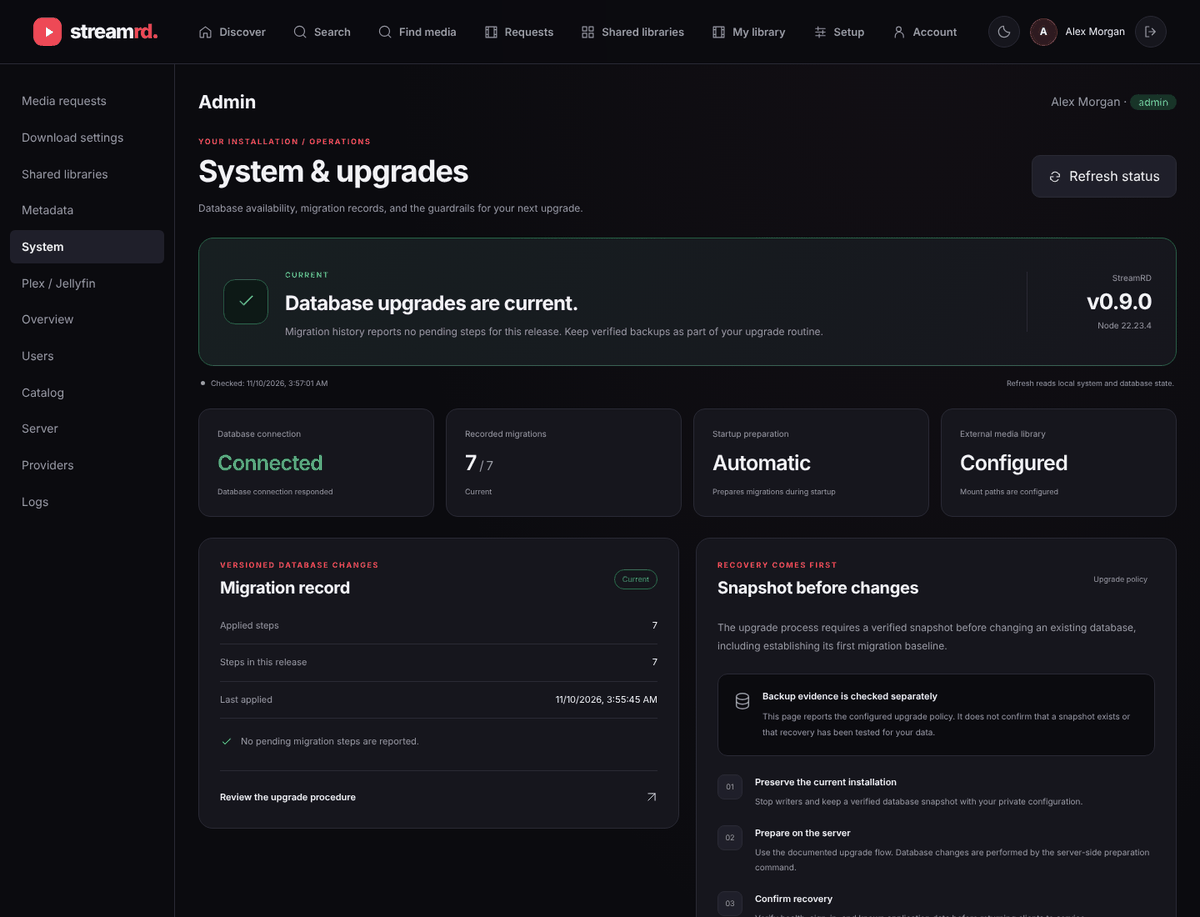
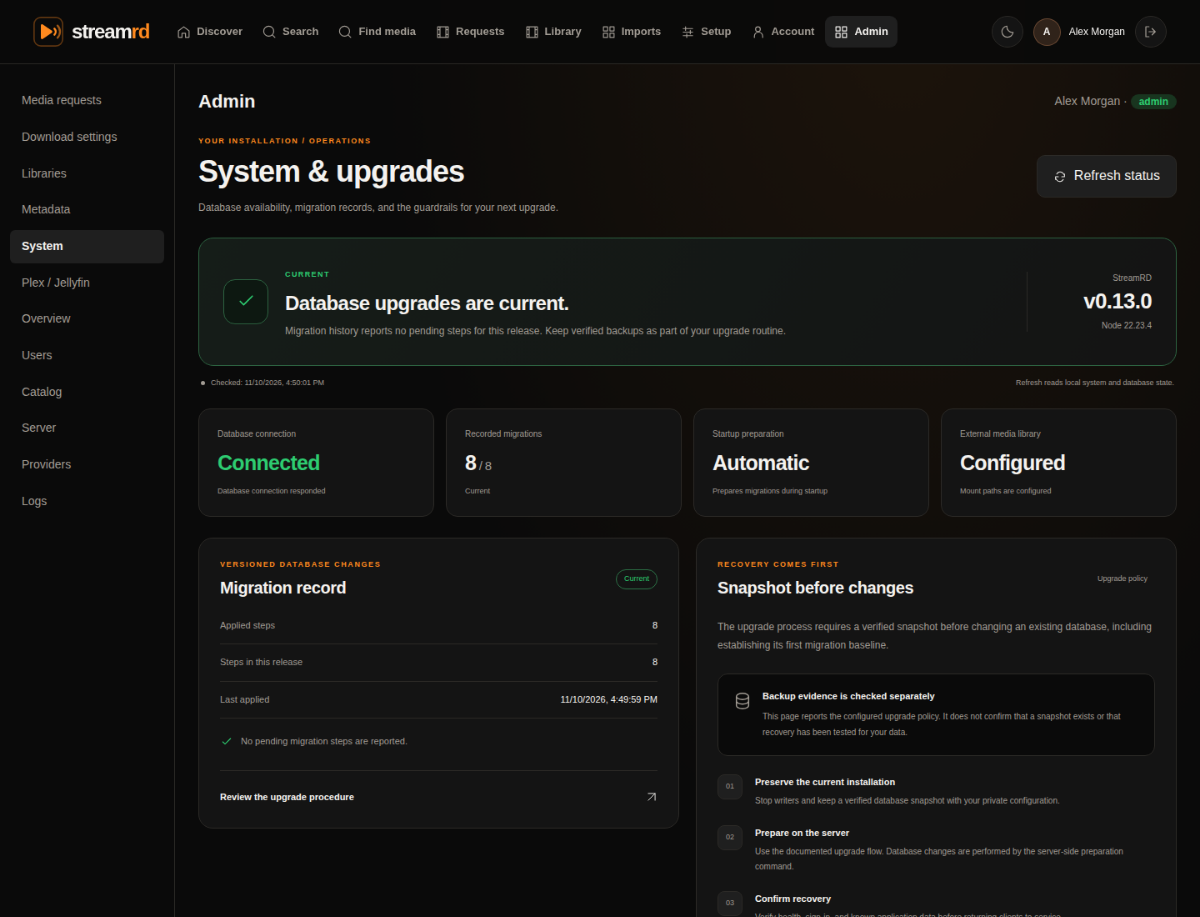
Screenshots: retake the README and wiki images in black and orange (#30)
* Add per-viewer watch progress and Continue Watching for shared libraries

Additive SharedLibraryProgress migration, resume-aware play response,
progress and continue APIs, web player resume and a Continue watching row.

Claude-Session: https://claude.ai/code/session_01XfL5GpKjb5mdAxbrKg7r83

* Add shared watch progress browser journey and v0.7.0 screenshots

Claude-Session: https://claude.ai/code/session_01XfL5GpKjb5mdAxbrKg7r83

* Limit watch-progress journey to StreamRD and refresh v0.7.0 screenshots for both products

Claude-Session: https://claude.ai/code/session_01XfL5GpKjb5mdAxbrKg7r83

* Prepare v0.7.0: bump package versions and release notes

Claude-Session: https://claude.ai/code/session_01XfL5GpKjb5mdAxbrKg7r83

* Update wiki sources for v0.7.0 shared watch progress

Claude-Session: https://claude.ai/code/session_01XfL5GpKjb5mdAxbrKg7r83

* Implement discovery, approved media requests and cloud/qBittorrent tracking

* Bundle both applications and qBittorrent in one supervised container

* Release candidate v0.8.0: admin updates, backup and restore

Admin -> System gains update checks with an operator-configured hook, verified
backups, typed-confirmation restore applied at next start, and a restart option
under a supervisor. Rebased Codex's media requests and single-container work onto
v0.7.0, resequenced its migration, bumped versions to 0.8.0, added a browser journey,
docs and screenshots.
[…]

diff --git a/docs/wiki/Screenshots.md b/docs/wiki/Screenshots.md
@@ -1,105 +1,105 @@
-# Screenshots — v0.9.0
+# Screenshots — v0.13.0
 
 Eighty-one captures from actual production images, with forty-one passing browser journeys
 and no page errors. All accounts/data are disposable fixtures. Read the
-[provenance and validation](https://github.com/Installation-04/StreamRD/blob/v0.9.0/docs/screenshots/v0.9.0/README.md)
+[provenance and validation](https://github.com/Installation-04/StreamRD/blob/main/docs/screenshots/v0.13.0/README.md)
 for what is real and what is synthetic.
 
 ## StreamRD discovery
 
-A real curated catalog, original poster fallbacks, and a saved favorite.
+The home page: a featured carousel (trailers are optional and per viewer), trending and popular rows, then the collection.
 
-![StreamRD discovery](https://raw.githubusercontent.com/Installation-04/StreamRD/v0.9.0/docs/screenshots/v0.9.0/streamrd-discover.png)
+![StreamRD discovery](https://raw.githubusercontent.com/Installation-04/StreamRD/main/docs/screenshots/v0.13.0/streamrd-discover.png)
 
 ## StreamRD light theme
 
 The same catalog with the actual light-theme control.
 
-![StreamRD light theme](https://raw.githubusercontent.com/Installation-04/StreamRD/v0.9.0/docs/screenshots/v0.9.0/streamrd-discover-light.png)
+![StreamRD light theme](https://raw.githubusercontent.com/Installation-04/StreamRD/main/docs/screenshots/v0.13.0/streamrd-discover-light.png)
 
 ## StreamRD on mobile
 
 390px viewport with responsive navigation and discovery.
 
-![StreamRD on mobile](https://raw.githubusercontent.com/Installation-04/StreamRD/v0.9.0/docs/screenshots/v0.9.0/streamrd-discover-mobile.png)
+![StreamRD on mobile](https://raw.githubusercontent.com/Installation-04/StreamRD/main/docs/screenshots/v0.13.0/streamrd-discover-mobile.png)
 
 ## Guided setup
 
 Local configuration progress, explicit next actions, and optional external libraries.
 
-![Guided setup](https://raw.githubusercontent.com/Installation-04/StreamRD/v0.9.0/docs/screenshots/v0.9.0/streamrd-setup.png)
+![Guided setup](https://raw.githubusercontent.com/Installation-04/StreamRD/main/docs/screenshots/v0.13.0/streamrd-setup.png)
 
 ## Setup on mobile
 
 The same checklist in a mobile viewport.
 
-![Setup on mobile](https://raw.githubusercontent.com/Installation-04/StreamRD/v0.9.0/docs/screenshots/v0.9.0/streamrd-setup-mobile.png)
+![Setup on mobile](https://raw.githubusercontent.com/Installation-04/StreamRD/main/docs/screenshots/v0.13.0/streamrd-setup-mobile.png)
 
 ## Reviewed mounted-library exports
 
 Real mounted-file selection and movie/episode batch exports, followed by link repair.
 
-![Reviewed mounted-library exports](https://raw.githubusercontent.com/Installation-04/StreamRD/v0.9.0/docs/screenshots/v0.9.0/streamrd-library.png)
+![Reviewed mounted-library exports](https://raw.githubusercontent.com/Installation-04/StreamRD/main/docs/screenshots/v0.13.0/streamrd-library.png)
 
 ## Library on mobile
 
 Mobile browsing before any demo files are exported.
 
-![Library on mobile](https://raw.githubusercontent.com/Installation-04/StreamRD/v0.9.0/docs/screenshots/v0.9.0/streamrd-library-mobile.png)
+![Library on mobile](https://raw.githubusercontent.com/Installation-04/StreamRD/main/docs/screenshots/v0.13.0/streamrd-library-mobile.png)
 
 ## Phosphor discovery
 
 Local Torznab results, inline saved-search naming, and the green theme.
 
-![Phosphor discovery](https://raw.githubusercontent.com/Installation-04/StreamRD/v0.9.0/docs/screenshots/v0.9.0/phosphor-discover.png)
+![Phosphor discovery](https://raw.githubusercontent.com/Installation-04/StreamRD/main/docs/screenshots/v0.13.0/phosphor-discover.png)
 
 ## Phosphor amber theme
 
 Theme control preserves the active search.
 
-![Phosphor amber theme](https://raw.githubusercontent.com/Installation-04/StreamRD/v0.9.0/docs/screenshots/v0.9.0/phosphor-discover-amber.png)
+![Phosphor amber theme](https://raw.githubusercontent.com/Installation-04/StreamRD/main/docs/screenshots/v0.13.0/phosphor-discover-amber.png)
 
 ## Phosphor white theme
 
 A third legible phosphor palette.
 
-![Phosphor white theme](https://raw.githubusercontent.com/Installation-04/StreamRD/v0.9.0/docs/screenshots/v0.9.0/phosphor-discover-white.png)
+![Phosphor white theme](https://raw.githubusercontent.com/Installation-04/StreamRD/main/docs/screenshots/v0.13.0/phosphor-discover-white.png)
 
 ## Phosphor on mobile
 
 Responsive search and filter controls at 390px.
 
-![Phosphor on mobile](https://raw.githubusercontent.com/Installation-04/StreamRD/v0.9.0/docs/screenshots/v0.9.0/phosphor-discover-mobile.png)
+![Phosphor on mobile](https://raw.githubusercontent.com/Installation-04/StreamRD/main/docs/screenshots/v0.13.0/phosphor-discover-mobile.png)
 
 ## Phosphor setup
 
 Role-aware connection checklist; configured is explicitly unverified.
 
-![Phosphor setup](https://raw.githubusercontent.com/Installation-04/StreamRD/v0.9.0/docs/screenshots/v0.9.0/phosphor-setup.png)
+![Phosphor setup](https://raw.githubusercontent.com/Installation-04/StreamRD/main/docs/screenshots/v0.13.0/phosphor-setup.png)
 
 ## Phosphor setup on mobile
 
 Mobile setup guidance for a fresh demo installation.
 
-![Phosphor setup on mobile](https://raw.githubusercontent.com/Installation-04/StreamRD/v0.9.0/docs/screenshots/v0.9.0/phosphor-setup-mobile.png)
+![Phosphor setup on mobile](https://raw.githubusercontent.com/Installation-04/StreamRD/main/docs/screenshots/v0.13.0/phosphor-setup-mobile.png)
 
 ## Phosphor mounted library
 
 The same reviewed movie/episode workflow in the terminal theme.
 
-![Phosphor mounted library](https://raw.githubusercontent.com/Installation-04/StreamRD/v0.9.0/docs/screenshots/v0.9.0/phosphor-library.png)
+![Phosphor mounted library](https://raw.githubusercontent.com/Installation-04/StreamRD/main/docs/screenshots/v0.13.0/phosphor-library.png)
 
 ## Phosphor library on mobile
 
 Responsive folder browsing and review panels.
 
-![Phosphor library on mobile](https://raw.githubusercontent.com/Installation-04/StreamRD/v0.9.0/docs/screenshots/v0.9.0/phosphor-library-mobile.png)
+![Phosphor library on mobile](https://raw.githubusercontent.com/Installation-04/StreamRD/main/docs/screenshots/v0.13.0/phosphor-library-mobile.png)
 
 ## Phosphor queue
 
 The real empty state; outage recovery is tested separately.
 
-![Phosphor queue](https://raw.githubusercontent.com/Installation-04/StreamRD/v0.9.0/docs/screenshots/v0.9.0/phosphor-queue.png)
+![Phosphor queue](https://raw.githubusercontent.com/Installation-04/StreamRD/main/docs/screenshots/v0.13.0/phosphor-queue.png)
 
 
 ## StreamRD System & upgrades
@@ -107,15 +107,15 @@ The real empty state; outage recovery is tested separately.
 Read-only release, runtime and independently verified migration readiness. Snapshot
 policy is shown separately from evidence that a backup exists.
 
-![StreamRD System](https://raw.githubusercontent.com/Installation-04/StreamRD/v0.9.0/docs/screenshots/v0.9.0/streamrd-system.png)
+![StreamRD System](https://raw.githubusercontent.com/Installation-04/StreamRD/main/docs/screenshots/v0.13.0/streamrd-system.png)
 
-![StreamRD System on mobile](https://raw.githubusercontent.com/Installation-04/StreamRD/v0.9.0/docs/screenshots/v0.9.0/streamrd-system-mobile.png)
+![StreamRD System on mobile](https://raw.githubusercontent.com/Installation-04/StreamRD/main/docs/screenshots/v0.13.0/streamrd-system-mobile.png)
 
 ## Phosphor System & upgrades
 
-![Phosphor System](https://raw.githubusercontent.com/Installation-04/StreamRD/v0.9.0/docs/screenshots/v0.9.0/phosphor-system.png)
+![Phosphor System](https://raw.githubusercontent.com/Installation-04/StreamRD/main/docs/screenshots/v0.13.0/phosphor-system.png)
 
-![Phosphor System on mobile](https://raw.githubusercontent.com/Installation-04/StreamRD/v0.9.0/docs/screenshots/v0.9.0/phosphor-system-mobile.png)
+![Phosphor System on mobile](https://raw.githubusercontent.com/Installation-04/StreamRD/main/docs/screenshots/v0.13.0/phosphor-system-mobile.png)
 
 ## Metadata and automatic libraries
 
@@ -124,110 +124,110 @@ posters were used. Ratings and cast in these images are synthetic demo data.
 
 ### StreamRD: Metadata settings and matching activity
 
-![StreamRD Metadata settings and matching activity](https://raw.githubusercontent.com/Installation-04/StreamRD/v0.9.0/docs/screenshots/v0.9.0/streamrd-metadata.png)
+![StreamRD Metadata settings and matching activity](https://raw.githubusercontent.com/Installation-04/StreamRD/main/docs/screenshots/v0.13.0/streamrd-metadata.png)
 
 ### StreamRD: Metadata on mobile
 
-![StreamRD Metadata on mobile](https://raw.githubusercontent.com/Installation-04/StreamRD/v0.9.0/docs/screenshots/v0.9.0/streamrd-metadata-mobile.png)
+![StreamRD Metadata on mobile](https://raw.githubusercontent.com/Installation-04/StreamRD/main/docs/screenshots/v0.13.0/streamrd-metadata-mobile.png)
 
 ### StreamRD: Enriched mounted exports
 
-![StreamRD Enriched mounted exports](https://raw.githubusercontent.com/Installation-04/StreamRD/v0.9.0/docs/screenshots/v0.9.0/streamrd-library-metadata.png)
+![StreamRD Enriched mounted exports](https://raw.githubusercontent.com/Installation-04/StreamRD/main/docs/screenshots/v0.13.0/streamrd-library-metadata.png)
 
 ### StreamRD: Onboarding account scan
 
-![StreamRD Onboarding account scan](https://raw.githubusercontent.com/Installation-04/StreamRD/v0.9.0/docs/screenshots/v0.9.0/streamrd-setup-scan.png)
+![StreamRD Onboarding account scan](https://raw.githubusercontent.com/Installation-04/StreamRD/main/docs/screenshots/v0.13.0/streamrd-setup-scan.png)
 
 ### StreamRD: Private account library
 
-![StreamRD Private account library](https://raw.githubusercontent.com/Installation-04/StreamRD/v0.9.0/docs/screenshots/v0.9.0/streamrd-account-library.png)
+![StreamRD Private account library](https://raw.githubusercontent.com/Installation-04/StreamRD/main/docs/screenshots/v0.13.0/streamrd-account-library.png)
 
 ### StreamRD: Private library on mobile
 
-![StreamRD Private library on mobile](https://raw.githubusercontent.com/Installation-04/StreamRD/v0.9.0/docs/screenshots/v0.9.0/streamrd-account-library-mobile.png)
+![StreamRD Private library on mobile](https://raw.githubusercontent.com/Installation-04/StreamRD/main/docs/screenshots/v0.13.0/streamrd-account-library-mobile.png)
 
 ### StreamRD: Private title details
 
-![StreamRD Private title details](https://raw.githubusercontent.com/Installation-04/StreamRD/v0.9.0/docs/screenshots/v0.9.0/streamrd-account-title.png)
+![StreamRD Private title details](https://raw.githubusercontent.com/Installation-04/StreamRD/main/docs/screenshots/v0.13.0/streamrd-account-title.png)
 
 ### Phosphor: Metadata settings and matching activity
 
-![Phosphor Metadata settings and matching activity](https://raw.githubusercontent.com/Installation-04/StreamRD/v0.9.0/docs/screenshots/v0.9.0/phosphor-metadata.png)
+![Phosphor Metadata settings and matching activity](https://raw.githubusercontent.com/Installation-04/StreamRD/main/docs/screenshots/v0.13.0/phosphor-metadata.png)
 
 ### Phosphor: Metadata on mobile
 
-![Phosphor Metadata on mobile](https://raw.githubusercontent.com/Installation-04/StreamRD/v0.9.0/docs/screenshots/v0.9.0/phosphor-metadata-mobile.png)
+![Phosphor Metadata on mobile](https://raw.githubusercontent.com/Installation-04/StreamRD/main/docs/screenshots/v0.13.0/phosphor-metadata-mobile.png)
 
 ### Phosphor: Enriched mounted exports
 
-![Phosphor Enriched mounted exports](https://raw.githubusercontent.com/Installation-04/StreamRD/v0.9.0/docs/screenshots/v0.9.0/phosphor-library-metadata.png)
+![Phosphor Enriched mounted exports](https://raw.githubusercontent.com/Installation-04/StreamRD/main/docs/screenshots/v0.13.0/phosphor-library-metadata.png)
 
 ### Phosphor: Onboarding account scan
 
-![Phosphor Onboarding account scan](https://raw.githubusercontent.com/Installation-04/StreamRD/v0.9.0/docs/screenshots/v0.9.0/phosphor-setup-scan.png)
+![Phosphor Onboarding account scan](https://raw.githubusercontent.com/Installation-04/StreamRD/main/docs/screenshots/v0.13.0/phosphor-setup-scan.png)
 
 ### Phosphor: Private account library
 
-![Phosphor Private account library](https://raw.githubusercontent.com/Installation-04/StreamRD/v0.9.0/docs/screenshots/v0.9.0/phosphor-account-library.png)
+![Phosphor Private account library](https://raw.githubusercontent.com/Installation-04/StreamRD/main/docs/screenshots/v0.13.0/phosphor-account-library.png)
 
 ### Phosphor: Private library on mobile
 
-![Phosphor Private library on mobile](https://raw.githubusercontent.com/Installation-04/StreamRD/v0.9.0/docs/screenshots/v0.9.0/phosphor-account-library-mobile.png)
+![Phosphor Private library on mobile](https://raw.githubusercontent.com/Installation-04/StreamRD/main/docs/screenshots/v0.13.0/phosphor-account-library-mobile.png)
 
 ### Phosphor: Private title details
 
-![Phosphor Private title details](https://raw.githubusercontent.com/Installation-04/StreamRD/v0.9.0/docs/screenshots/v0.9.0/phosphor-account-title.png)
+![Phosphor Private title details](https://raw.githubusercontent.com/Installation-04/StreamRD/main/docs/screenshots/v0.13.0/phosphor-account-title.png)
 
 ### StreamRD: Enriched catalog title
 
-![Enriched catalog title](https://raw.githubusercontent.com/Installation-04/StreamRD/v0.9.0/docs/screenshots/v0.9.0/streamrd-title-metadata.png)
+![Enriched catalog title](https://raw.githubusercontent.com/Installation-04/StreamRD/main/docs/screenshots/v0.13.0/streamrd-title-metadata.png)
 
 ### StreamRD: Catalog details on mobile
 
-![Catalog details on mobile](https://raw.githubusercontent.com/Installation-04/StreamRD/v0.9.0/docs/screenshots/v0.9.0/streamrd-title-metadata-mobile.png)
+![Catalog details on mobile](https://raw.githubusercontent.com/Installation-04/StreamRD/main/docs/screenshots/v0.13.0/streamrd-title-metadata-mobile.png)
 
 ## Admin maintenance, logs and library matching
 
-![StreamRD Updates and Backups & restore](https://raw.githubusercontent.com/Installation-04/StreamRD/v0.9.0/docs/screenshots/v0.9.0/system-maintenance.png)
+![StreamRD Updates and Backups & restore](https://raw.githubusercontent.com/Installation-04/StreamRD/main/docs/screenshots/v0.13.0/system-maintenance.png)
 
-![StreamRD admin logs with search, copy and download](https://raw.githubusercontent.com/Installation-04/StreamRD/v0.9.0/docs/screenshots/v0.9.0/logs.png)
+![StreamRD admin logs with search, copy and download](https://raw.githubusercontent.com/Installation-04/StreamRD/main/docs/screenshots/v0.13.0/logs.png)
 
-![StreamRD My library matching progress](https://raw.githubusercontent.com/Installation-04/StreamRD/v0.9.0/docs/screenshots/v0.9.0/library-match-status.png)
+![StreamRD My library matching progress](https://raw.githubusercontent.com/Installation-04/StreamRD/main/docs/screenshots/v0.13.0/library-match-status.png)
 
-![StreamRD dashboard with From your library](https://raw.githubusercontent.com/Installation-04/StreamRD/v0.9.0/docs/screenshots/v0.9.0/dashboard-library-row.png)
+![StreamRD home page rows: New in your libraries, Popular on this server, Trending and Popular](https://raw.githubusercontent.com/Installation-04/StreamRD/main/docs/screenshots/v0.13.0/dashboard-library-row.png)
 
 ## People and server access
 
 Invite-only signup policy, one-use invitations and member controls.
 
-![StreamRD people and access](https://raw.githubusercontent.com/Installation-04/StreamRD/v0.9.0/docs/screenshots/v0.9.0/streamrd-server-access.png)
+![StreamRD people and access](https://raw.githubusercontent.com/Installation-04/StreamRD/main/docs/screenshots/v0.13.0/streamrd-server-access.png)
 
-![StreamRD mobile people and access](https://raw.githubusercontent.com/Installation-04/StreamRD/v0.9.0/docs/screenshots/v0.9.0/streamrd-server-access-mobile.png)
+![StreamRD mobile people and access](https://raw.githubusercontent.com/Installation-04/StreamRD/main/docs/screenshots/v0.13.0/streamrd-server-access-mobile.png)
 
-![StreamRD named libraries and grants](https://raw.githubusercontent.com/Installation-04/StreamRD/v0.9.0/docs/screenshots/v0.9.0/streamrd-shared-library-admin.png)
+![StreamRD Admin → Libraries: visible to everyone or chosen people](https://raw.githubusercontent.com/Installation-04/StreamRD/main/docs/screenshots/v0.13.0/streamrd-shared-library-admin.png)
 
-![StreamRD mobile library administration](https://raw.githubusercontent.com/Installation-04/StreamRD/v0.9.0/docs/screenshots/v0.9.0/streamrd-shared-library-admin-mobile.png)
+![StreamRD mobile library administration](https://raw.githubusercontent.com/Installation-04/StreamRD/main/docs/screenshots/v0.13.0/streamrd-shared-library-admin-mobile.png)
 
-![StreamRD viewer gallery](https://raw.githubusercontent.com/Installation-04/StreamRD/v0.9.0/docs/screenshots/v0.9.0/streamrd-shared-library.png)
+![StreamRD Library as an invited viewer sees it](https://raw.githubusercontent.com/Installation-04/StreamRD/main/docs/screenshots/v0.13.0/streamrd-shared-library.png)
 
-![StreamRD mobile viewer gallery](https://raw.githubusercontent.com/Installation-04/StreamRD/v0.9.0/docs/screenshots/v0.9.0/streamrd-shared-library-mobile.png)
+![StreamRD mobile viewer gallery](https://raw.githubusercontent.com/Installation-04/StreamRD/main/docs/screenshots/v0.13.0/streamrd-shared-library-mobile.png)
 
-![StreamRD Continue watching row](https://raw.githubusercontent.com/Installation-04/StreamRD/v0.9.0/docs/screenshots/v0.9.0/streamrd-shared-continue-watching.png)
+![StreamRD Continue watching row](https://raw.githubusercontent.com/Installation-04/StreamRD/main/docs/screenshots/v0.13.0/streamrd-shared-continue-watching.png)
 
-![StreamRD Continue watching on mobile](https://raw.githubusercontent.com/Installation-04/StreamRD/v0.9.0/docs/screenshots/v0.9.0/streamrd-shared-continue-watching-mobile.png)
+![StreamRD Continue watching on mobile](https://raw.githubusercontent.com/Installation-04/StreamRD/main/docs/screenshots/v0.13.0/streamrd-shared-continue-watching-mobile.png)
 
-![StreamRD shared title and playback controls](https://raw.githubusercontent.com/Installation-04/StreamRD/v0.9.0/docs/screenshots/v0.9.0/streamrd-shared-title.png)
+![StreamRD shared title and playback controls](https://raw.githubusercontent.com/Installation-04/StreamRD/main/docs/screenshots/v0.13.0/streamrd-shared-title.png)
 
-![Phosphor people and access](https://raw.githubusercontent.com/Installation-04/StreamRD/v0.9.0/docs/screenshots/v0.9.0/phosphor-server-access.png)
+![Phosphor people and access](https://raw.githubusercontent.com/Installation-04/StreamRD/main/docs/screenshots/v0.13.0/phosphor-server-access.png)
 
-![Phosphor mobile people and access](https://raw.githubusercontent.com/Installation-04/StreamRD/v0.9.0/docs/screenshots/v0.9.0/phosphor-server-access-mobile.png)
+![Phosphor mobile people and access](https://raw.githubusercontent.com/Installation-04/StreamRD/main/docs/screenshots/v0.13.0/phosphor-server-access-mobile.png)
 
-![Phosphor named libraries and grants](https://raw.githubusercontent.com/Installation-04/StreamRD/v0.9.0/docs/screenshots/v0.9.0/phosphor-shared-library-admin.png)
+![Phosphor named libraries and grants](https://raw.githubusercontent.com/Installation-04/StreamRD/main/docs/screenshots/v0.13.0/phosphor-shared-library-admin.png)
 
-![Phosphor mobile library administration](https://raw.githubusercontent.com/Installation-04/StreamRD/v0.9.0/docs/screenshots/v0.9.0/phosphor-shared-library-admin-mobile.png)
+![Phosphor mobile library administration](https://raw.githubusercontent.com/Installation-04/StreamRD/main/docs/screenshots/v0.13.0/phosphor-shared-library-admin-mobile.png)
 
-![Phosphor viewer gallery](https://raw.githubusercontent.com/Installation-04/StreamRD/v0.9.0/docs/screenshots/v0.9.0/phosphor-shared-library.png)
+![Phosphor viewer gallery](https://raw.githubusercontent.com/Installation-04/StreamRD/main/docs/screenshots/v0.13.0/phosphor-shared-library.png)
 
-![Phosphor mobile viewer gallery](https://raw.githubusercontent.com/Installation-04/StreamRD/v0.9.0/docs/screenshots/v0.9.0/phosphor-shared-library-mobile.png)
+![Phosphor mobile viewer gallery](https://raw.githubusercontent.com/Installation-04/StreamRD/main/docs/screenshots/v0.13.0/phosphor-shared-library-mobile.png)
 
-![Phosphor shared title and playback controls](https://raw.githubusercontent.com/Installation-04/StreamRD/v0.9.0/docs/screenshots/v0.9.0/phosphor-shared-title.png)
+![Phosphor shared title and playback controls](https://raw.githubusercontent.com/Installation-04/StreamRD/main/docs/screenshots/v0.13.0/phosphor-shared-title.png)

diff --git a/README.md b/README.md
@@ -3,7 +3,7 @@
 </p>
 
 <p align="center">
-  <img src="docs/assets/readme/hero.jpg" alt="StreamRD on desktop in dark and light themes, on a phone, and next to Phosphor" width="100%">
+  <img src="docs/assets/readme/hero.jpg" alt="StreamRD in black and orange: the home page with a featured carousel, on desktop, light theme, a phone, and next to Phosphor" width="100%">
 </p>
 
 <p align="center">
@@ -38,28 +38,28 @@ You decide who joins and what they can see, and nobody else needs a debrid subsc
 
 <table>
   <tr>
-    <td align="center" width="50%"><img src="docs/assets/readme/discover-dark.png" alt="Discover page in the dark theme"><br><sub><b>Discover</b>: your collection, My List and continue watching</sub></td>
-    <td align="center" width="50%"><img src="docs/assets/readme/discover-light.png" alt="Discover page in the light theme"><br><sub><b>Light, dark or system theme</b></sub></td>
+    <td align="center" width="50%"><img src="docs/assets/readme/discover-dark.png" alt="Home page with a featured carousel and trending row in the black and orange theme"><br><sub><b>Home</b>: a featured carousel (optional trailers), then Continue watching, New in your libraries, Popular and Trending</sub></td>
+    <td align="center" width="50%"><img src="docs/assets/readme/discover-light.png" alt="Home page in the light theme"><br><sub><b>Light, dark or system theme</b></sub></td>
+  </tr>
+  <tr>
+    <td align="center"><img src="docs/assets/readme/libraries.png" alt="A library as seen by an invited viewer"><br><sub><b>Library</b>: what an invited viewer sees</sub></td>
+    <td align="center"><img src="docs/assets/readme/libraries-admin.png" alt="Admin page for creating libraries and choosing who can see them"><br><sub><b>Libraries</b>: visible to everyone or chosen people</sub></td>
   </tr>
   <tr>
     <td align="center"><img src="docs/assets/readme/find-media.png" alt="Searching TMDB for a movie to request"><br><sub><b>Find media</b>: search TMDB and request what you want</sub></td>
     <td align="center"><img src="docs/assets/readme/requests.png" alt="Request list with measured download progress"><br><sub><b>Requests</b>: real download progress, cloud or local</sub></td>
   </tr>
   <tr>
-    <td align="center"><img src="docs/assets/readme/my-library.png" alt="My library with artwork matching status"><br><sub><b>My library</b>: imported from your debrid account, matched automatically</sub></td>
-    <td align="center"><img src="docs/assets/readme/shared-library.png" alt="A shared library as seen by an invited viewer"><br><sub><b>Shared libraries</b>: what an invited viewer sees</sub></td>
+    <td align="center"><img src="docs/assets/readme/imports.png" alt="Imports page with artwork matching status"><br><sub><b>Imports</b>: pulled from your debrid account, matched automatically</sub></td>
+    <td align="center"><img src="docs/assets/readme/people-access.png" alt="Admin page for members, invitations and registration policy"><br><sub><b>People &amp; access</b>: invitations, members, sign-out everywhere</sub></td>
   </tr>
   <tr>
-    <td align="center"><img src="docs/assets/readme/people-access.png" alt="Admin page for members, invitations and registration policy"><br><sub><b>People &amp; access</b>: invitations, members, sign-out everywhere</sub></td>
     <td align="center"><img src="docs/assets/readme/system.png" alt="Admin system page with updates and backups"><br><sub><b>System</b>: update checks, verified backups and restore</sub></td>
+    <td align="center"><img src="docs/assets/readme/discover-mobile.png" alt="StreamRD on a phone" height="420"><br><sub><b>Phones and tablets</b>: responsive everywhere</sub></td>
   </tr>
 </table>
 
-<p align="center">
-  <img src="docs/assets/readme/discover-mobile.png" alt="StreamRD on a phone" height="420">
-  &nbsp;&nbsp;
-  <sub>Responsive on phones and tablets.<br>More in the <a href="https://github.com/Installation-04/StreamRD/wiki/Screenshots">screenshot gallery</a>.<br>All screenshots use demo data.</sub>
-</p>
+<p align="center"><sub>More in the <a href="https://github.com/Installation-04/StreamRD/wiki/Screenshots">screenshot gallery</a>. All screenshots use demo data; the trending and popular rows are live public lists.</sub></p>
 
 ## 🚀 Quick install
 

diff --git a/docs/screenshots/v0.13.0/README.md b/docs/screenshots/v0.13.0/README.md
@@ -1,0 +1,13 @@
+# v0.13.0 screenshots
+
+Captured from production StreamRD and Phosphor images built from `main` at the v0.13.0 merge commit, with the browser
+journeys (`infra/run-browser-qa.sh both`) against fresh disposable SQLite volumes: 41 browser journeys, 81 screenshots
+(desktop and 390px mobile), no page errors; see validation.json. They show the black and orange StreamRD, the Admin → Libraries
+page, the single **Library** and **Imports** navigation, and the home page with its featured carousel and Plex-style rows.
+
+What is real and what is not: the library fixtures are three fictional titles, so captures show layout, not behaviour on a large
+library. The home page's **Trending now**, **Popular movies** and **Popular TV shows** rows, and the carousel's backdrops, are
+live data from the public Cinemeta catalogues at capture time; trailers are not played in the screenshots. Phosphor keeps its own
+green, amber and white looks. Provider and request services are test fixtures; no real debrid account or indexer was contacted.
+
+The README images in `docs/assets/readme` are crops of these files, built with `node scripts/readme-assets.cjs <folder>`.

diff --git a/docs/screenshots/README.md b/docs/screenshots/README.md
@@ -1,3 +1,6 @@
+> The current screenshots, in the black and orange theme with libraries and the new home page, are in [v0.13.0/](v0.13.0/README.md).
+> The files below are older captures kept for history.
+
 # Application screenshots — v0.2.0
 
 Captured from the production web images in Chromium at 1440 × 1000, using fresh,
